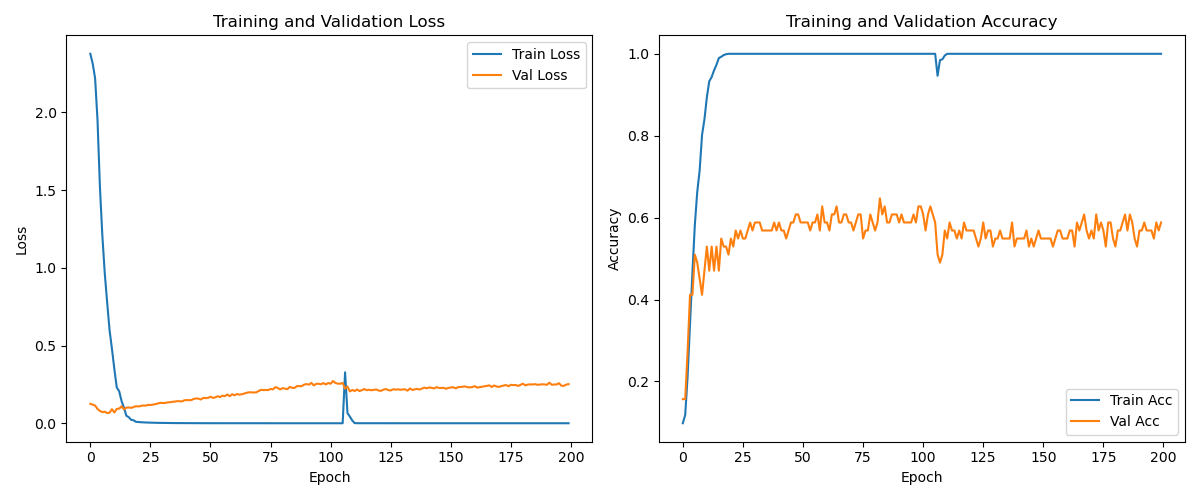
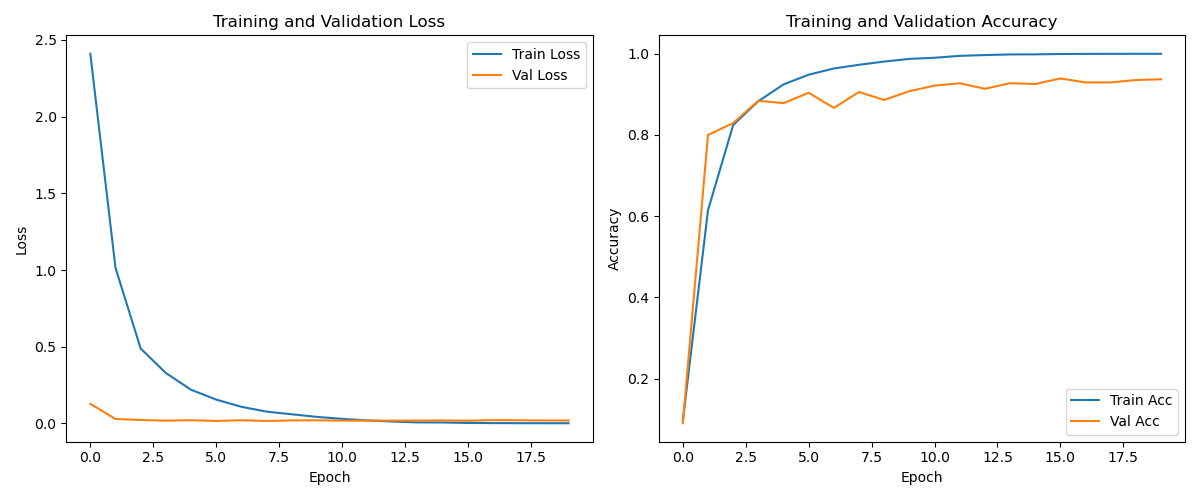
boost N-UCLA dataset accuracy over 86%

diff --git a/baseline/action_recognition/UCLA_inference.py b/baseline/action_recognition/UCLA_inference.py
@@ -147,14 +147,16 @@ def main():
     test_data_path = 'N-UCLA_processed/'
     test_label_path = 'N-UCLA_processed/val_label.pkl'
 
+    P_INFERENCE_MODE = 0.0
+    REPEAT_INFERENCE_MODE = 1
     test_dataset_pre = SF_UCLA_Dataset(
         data_path=test_data_path,
         label_path=test_label_path,
         data_type='j', 
-        window_size=64, 
+        window_size=-1, 
         partition=True, 
-        repeat=1, 
-        p=0.5, 
+        repeat=REPEAT_INFERENCE_MODE, 
+        p=P_INFERENCE_MODE, 
         debug=False
     )
 

diff --git a/README.md b/README.md
@@ -215,7 +215,7 @@ The following bottleneck is ***under discussion***:
 The current best training setup (95%-5% train-val split):
 
 | masked pretraining | decoder | d_model | n_head | num_layers | freeze T1? | T1-lr | #epochs | T2-lr (ft-lr) | #epochs | accuracy |
-| 30%, z-norm | linear | 256 | 8 | 4 | no | 1e-4 | 1000 | 3e-5, wd=1e-4, cosine + warmup | 300 | **71.55%** |
+| 30%, SF data loader | linear | 256 | 8 | 4 | no | 1e-4 | 100 | 3e-5, wd=1e-4, cosine + warmup | 50 | **86.64%** |
 
 
 
@@ -251,14 +251,21 @@ The current best training setup (95%-5% train-val split):
 | 30%, z-norm | linear | 256 | 8 | 4 | no | 1e-4 | 1000 | 3e-5, wd=1e-4, cosine + warmup | 500 | 69.18% |
 | 30%, z-norm | linear | 256 | 8 | 4 | no | 1e-4 | 1000 | 3e-5, wd=1e-4, cosine + warmup | 1000 | 60.99% |
 
-SkateFormer data loader: 
-normalization: first-joint centering; min-max normalization
-regularization: random rotation, random scaling, random sampling, random dropout (joint/axis)
-data augmentation: dataset duplication (repeat N times)
+Use SkateFormer data loader instead of my own data loader because:
+
+1. normalization: first-joint centering; min-max normalization
+2. regularization: random rotation, random scaling, random sampling, random dropout (joint/axis)
+3. data augmentation: dataset duplication (repeat N=10 times)
 
 | masked pretraining | decoder | d_model | n_head | num_layers | freeze T1? | T1-lr | #epochs | T2-lr (ft-lr) | #epochs | accuracy |
 |--------------------|---------|---------|--------|------------|------------|--------|----------|----------------|----------|----------|
-| 30% | linear | 256 | 8 | 4 | no | 1e-4 | 100 | 3e-5, wd=1e-4, cosine + warmup | 100 | running |
+| 30%, SF data loader | linear | 256 | 8 | 4 | no | 1e-4 | 100 | 3e-5, wd=1e-4, cosine + warmup | 20 | 84.48% |
+| 30%, SF data loader | linear | 256 | 8 | 4 | no | 1e-4 | 100 | 3e-5, wd=1e-4, cosine + warmup | 50 | **86.64%** | 
+| 30%, SF data loader | linear | 256 | 8 | 4 | no | 1e-4 | 100 | 3e-5, wd=1e-4, cosine + warmup | 100 | 85.13% |
+| 30%, SF data loader | linear | 256 | 8 | 4 | no | 1e-4 | 100 | 3e-5, wd=1e-4, cosine + warmup | 200 | 84.27% |
+| 30%, SF data loader | linear | 256 | 8 | 4 | no | 1e-4 | 200 | 3e-5, wd=1e-4, cosine + warmup | 100 | TBD |
+| 30%, SF data loader | linear | 256 | 8 | 4 | no | 1e-4 | 200 | 3e-5, wd=1e-4, cosine + warmup | 200 | running |
+
 
 ## Baseline - Experiment (Skeletics-152, cross-view) 
 
